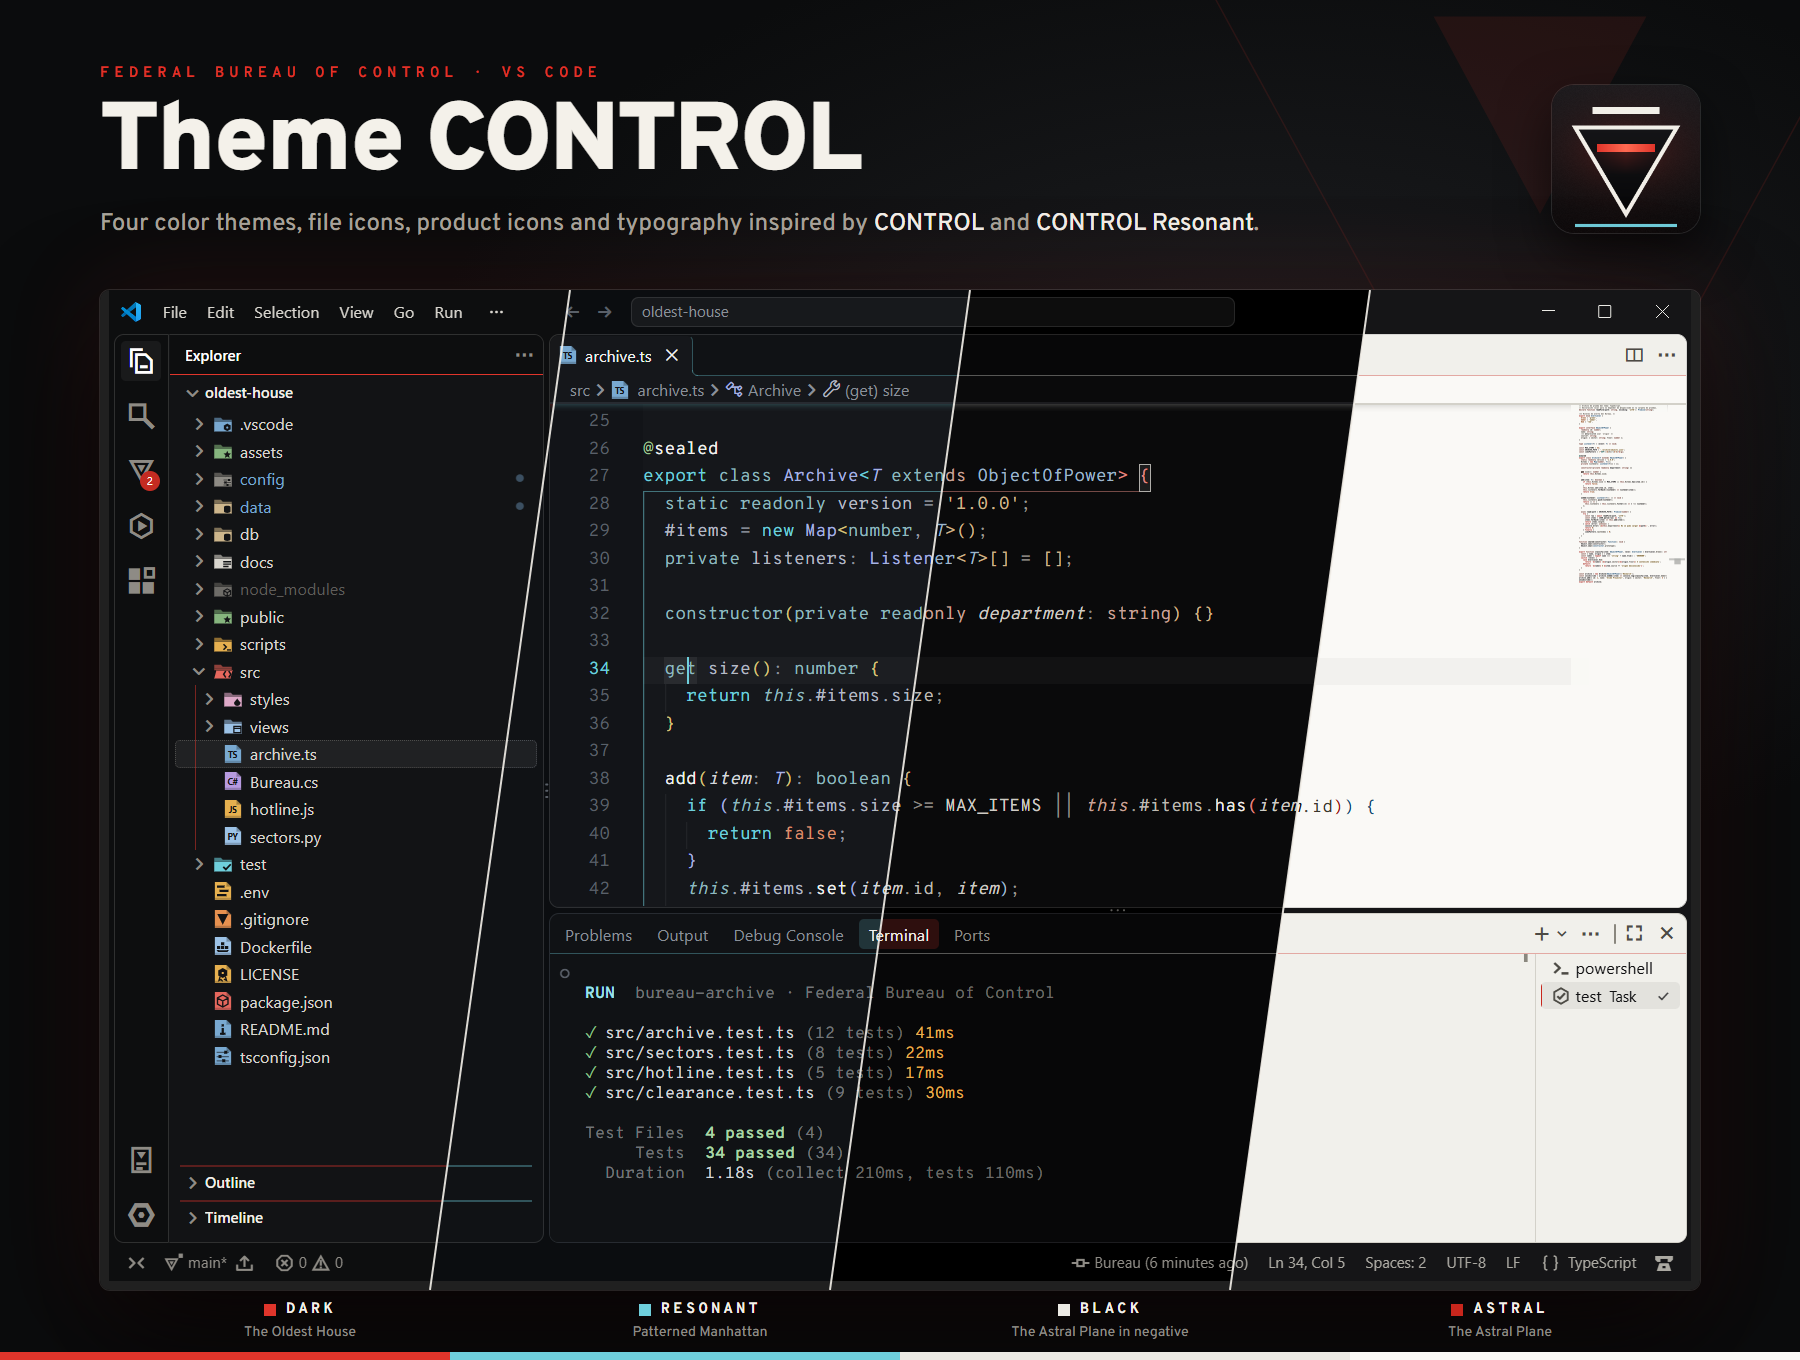
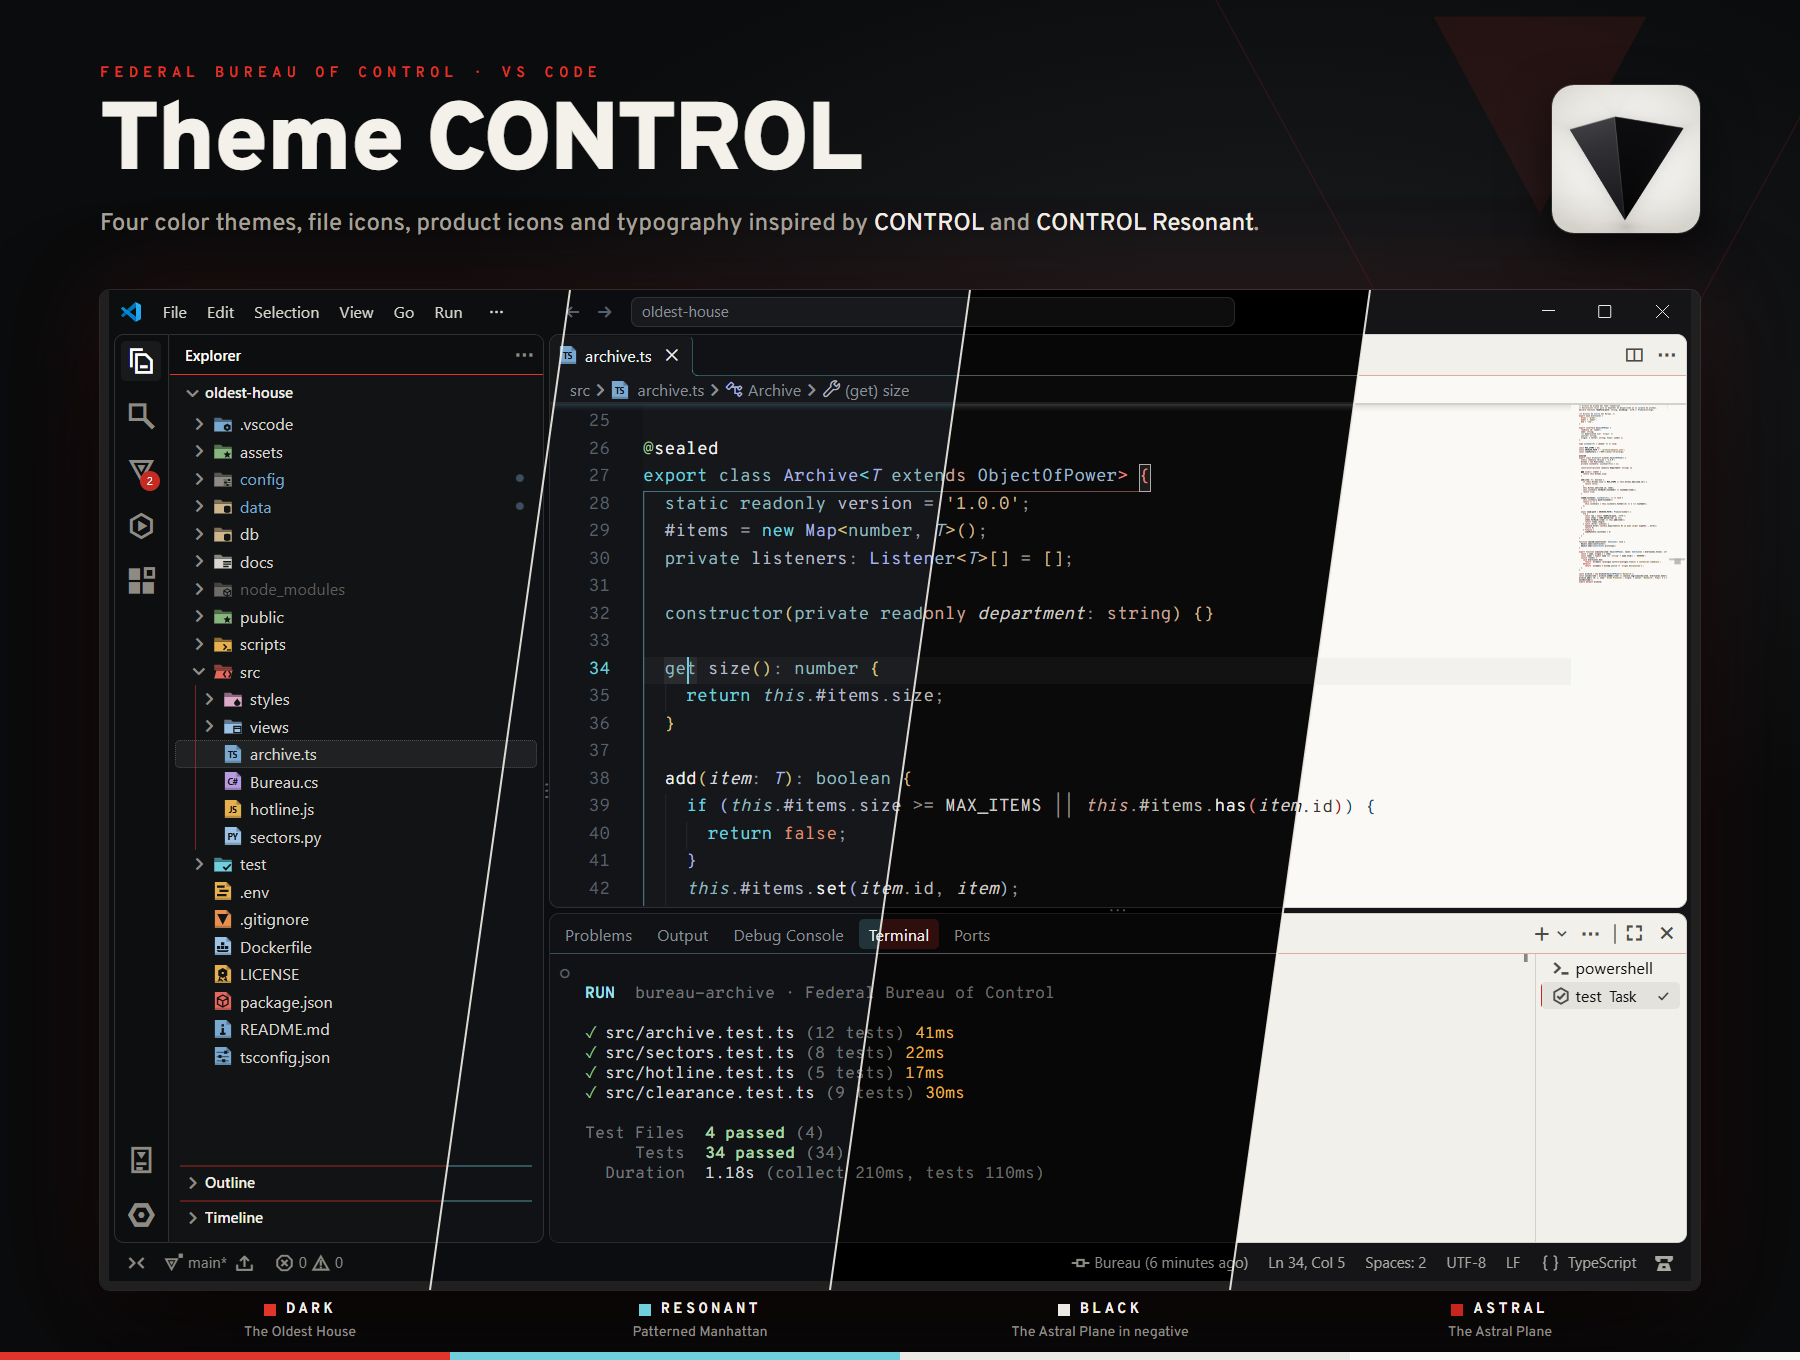
Icono nuevo: el Consejo en el Plano Astral
La pirámide invertida de piedra negra mate flotando en el vacío blanco,
vista desde abajo. Dibujo propio generado por código, sin arte del juego.
La portada del README usa el icono nuevo.

Changed region(s): [[0.84, 0.0618, 0.9644, 0.1853]]

diff --git a/scripts/icon.js b/scripts/icon.js
@@ -6,10 +6,11 @@
  *
  *   npm run icon
  *
- * Diseño propio, sin logos ni arte de los juegos: la pirámide invertida del
- * Consejo (el símbolo de todo el pack: rama de Git, Copilot, carpeta raíz)
- * flotando sobre hormigón, delineada en luz astral, con la ranura roja del FBC,
- * la línea con la que «habla» y la línea cian de la Hedron (Control Resonant).
+ * Diseño propio, sin logos ni arte de los juegos: el Consejo tal y como aparece
+ * en Control, una pirámide invertida de piedra negra mate flotando en el vacío
+ * blanco del Plano Astral. Se ve desde abajo y algo girada: dos caras (una
+ * iluminada por la luz astral y otra en sombra), la arista central y un filo de
+ * luz en el borde superior.
  */
 
 const fs = require('node:fs');
@@ -21,72 +22,95 @@ const SIZE = 256;
 const SS = 4; // supermuestreo por eje (antialiasing)
 
 /** @typedef {{r: number, g: number, b: number}} RGB */
-const BG_TOP = parse('#1A1B1E');
-const BG_BOTTOM = parse('#0B0C0D');
-const ASTRAL = parse('#F2EFE8');
-const BOARD = parse('#060607');
-const RED = parse('#E0352B');
-const RED_HOT = parse('#FF6A52');
-const CYAN = parse('#6FCFDC');
+/** @typedef {[number, number]} Pt */
+const VOID_CENTER = parse('#FCFBF8');
+const VOID_EDGE = parse('#D9D8D2');
+const HAZE = parse('#B4B3AD');
+const LIT_TOP = parse('#4A4A4F');
+const LIT_BOTTOM = parse('#18181B');
+const DARK_TOP = parse('#0E0E10');
+const DARK_BOTTOM = parse('#050506');
+const BOUNCE = parse('#232326');
+const RIM = parse('#E9E7E1');
+const RIDGE = parse('#5C5C61');
 
 const lerp = (/** @type {number} */ a, /** @type {number} */ b, /** @type {number} */ t) => a + (b - a) * t;
 const mixRGB = (/** @type {RGB} */ a, /** @type {RGB} */ b, /** @type {number} */ t) => ({ r: lerp(a.r, b.r, t), g: lerp(a.g, b.g, t), b: lerp(a.b, b.b, t) });
 const clamp01 = (/** @type {number} */ v) => Math.max(0, Math.min(1, v));
 
-// Pirámide invertida: vértices.
-const A = [34, 70];
-const B = [222, 70];
-const Cv = [128, 230];
-const OUTLINE = 7; // grosor del contorno de luz astral
+// Pirámide invertida vista desde abajo: la esquina delantera de la base (F)
+// queda por encima de las laterales (L, R) y la arista F→P separa las caras.
+/** @type {Pt} */ const L = [30, 76];
+/** @type {Pt} */ const F = [108, 54];
+/** @type {Pt} */ const R = [228, 74];
+/** @type {Pt} */ const P = [126, 234];
+const LIT = [L, F, P];
+const DARK = [F, R, P];
 
-/** Distancia con signo a una recta (positivo hacia dentro del triángulo). */
-function edge(/** @type {number[]} */ p, /** @type {number[]} */ q, /** @type {number} */ x, /** @type {number} */ y) {
+/** Distancia con signo a la recta p→q. */
+function edge(/** @type {Pt} */ p, /** @type {Pt} */ q, /** @type {number} */ x, /** @type {number} */ y) {
   const dx = q[0] - p[0];
   const dy = q[1] - p[1];
   return ((x - p[0]) * dy - (y - p[1]) * dx) / Math.hypot(dx, dy);
 }
 
-/** Distancia (positiva) al interior del triángulo: mínimo de las tres aristas. */
-function inside(/** @type {number} */ x, /** @type {number} */ y) {
-  return Math.min(-edge(A, B, x, y), -edge(B, Cv, x, y), -edge(Cv, A, x, y));
+/** Distancia al interior de un triángulo (positiva dentro, negativa fuera), sin importar el sentido. */
+function inside(/** @type {Pt[]} */ [a, b, c], /** @type {number} */ x, /** @type {number} */ y) {
+  const s = Math.sign(edge(a, b, c[0], c[1]));
+  return Math.min(s * edge(a, b, x, y), s * edge(b, c, x, y), s * edge(c, a, x, y));
+}
+
+/** Distancia de un punto a un segmento. */
+function segment(/** @type {Pt} */ p, /** @type {Pt} */ q, /** @type {number} */ x, /** @type {number} */ y) {
+  const dx = q[0] - p[0];
+  const dy = q[1] - p[1];
+  const t = clamp01(((x - p[0]) * dx + (y - p[1]) * dy) / (dx * dx + dy * dy));
+  return Math.hypot(x - (p[0] + t * dx), y - (p[1] + t * dy));
 }
 
 function grain(/** @type {number} */ x, /** @type {number} */ y) {
   const n = Math.sin(Math.floor(x) * 12.9898 + Math.floor(y) * 78.233) * 43758.5453;
-  return (n - Math.floor(n) - 0.5) * 5;
+  return (n - Math.floor(n) - 0.5) * 3;
 }
 
 /** @returns {RGB} */
 function shade(/** @type {number} */ x, /** @type {number} */ y) {
-  // Fondo: hormigón oscuro con grano y un resplandor rojo que sale de la ranura.
-  let c = mixRGB(BG_TOP, BG_BOTTOM, y / SIZE);
-  const g = grain(x, y);
-  c = { r: c.r + g, g: c.g + g, b: c.b + g };
-  const glow = Math.exp(-Math.hypot((x - 128) / 1.6, y - 112) / 46);
-  c = mixRGB(c, RED, clamp01(glow * 0.35));
+  const t = clamp01((y - F[1]) / (P[1] - F[1])); // 0 en la base, 1 en el vértice
 
-  // La línea con la que «habla» el Consejo.
-  if (y >= 38 && y < 50 && x >= 70 && x < 186) c = ASTRAL;
-
-  // La pirámide.
-  const d = inside(x, y);
-  if (d >= 0) {
-    if (d < OUTLINE) c = ASTRAL;
-    else {
-      c = mixRGB(BOARD, { r: 30, g: 30, b: 34 }, clamp01((230 - y) / 260));
-      // Ranura roja del FBC, más intensa en el centro.
-      if (y >= 102 && y < 116 && Math.abs(x - 128) < 50) {
-        c = mixRGB(RED, RED_HOT, clamp01(1 - Math.abs(x - 128) / 50));
-      }
-      // Reflejo rojo de la ranura sobre la cara interior.
-      const below = y - 116;
-      if (below > 0 && below < 40) c = mixRGB(c, RED, clamp01((1 - below / 40) * (1 - Math.abs(x - 128) / 70)) * 0.25);
+  const dLit = inside(LIT, x, y);
+  const dDark = inside(DARK, x, y);
+  if (dLit >= 0 || dDark >= 0) {
+    let c;
+    if (dLit >= dDark) {
+      // Cara iluminada: la luz astral entra por arriba a la izquierda.
+      c = mixRGB(LIT_TOP, LIT_BOTTOM, Math.pow(t, 0.7));
+      c = mixRGB(c, LIT_BOTTOM, clamp01((x - L[0]) / 260) * 0.5);
+    } else {
+      // Cara en sombra, con un leve rebote de luz junto al borde derecho.
+      c = mixRGB(DARK_TOP, DARK_BOTTOM, t);
+      c = mixRGB(c, BOUNCE, Math.exp(-Math.max(0, -edge(R, P, x, y)) / 10) * 0.55 * (1 - t));
     }
+    // Arista central.
+    const ridge = segment(F, P, x, y);
+    if (ridge < 1.4) c = mixRGB(c, RIDGE, (1 - ridge / 1.4) * (1 - t * 0.7));
+    // Filo de luz en el borde superior (más fuerte en el lado iluminado).
+    const rimLit = segment(L, F, x, y);
+    const rimDark = segment(F, R, x, y);
+    if (rimLit < 2.2) c = mixRGB(c, RIM, (1 - rimLit / 2.2) * 0.9);
+    if (rimDark < 1.8) c = mixRGB(c, RIM, (1 - rimDark / 1.8) * 0.45);
+    return c;
   }
 
-  // Línea cian de la Hedron (Control Resonant).
-  if (y >= 240 && y < 246 && x >= 40 && x < 216) c = CYAN;
-  return c;
+  // El vacío del Plano Astral: blanco, más luminoso detrás del Consejo.
+  const r = Math.hypot((x - 128) / 1.15, y - 118) / 190;
+  let c = mixRGB(VOID_CENTER, VOID_EDGE, clamp01(r * r * 1.6));
+  // Bruma alrededor de la silueta para que flote.
+  const out = Math.max(-dLit, -dDark) < 0 ? 0 : Math.min(-dLit, -dDark);
+  c = mixRGB(c, HAZE, Math.exp(-out / 16) * 0.32);
+  // Sombra difusa bajo el vértice.
+  c = mixRGB(c, HAZE, Math.exp(-Math.hypot((x - 128) / 3.2, (y - 246) / 1.2) / 6) * 0.5);
+  const g = grain(x, y);
+  return { r: c.r + g, g: c.g + g, b: c.b + g };
 }
 
 function main() {

diff --git a/docs/plan_claude.md b/docs/plan_claude.md
@@ -647,6 +647,7 @@ Peticiones: título **Theme CONTROL**; descripción más corta y profesional; ca
 | Qué | Dónde | Verificado |
 |---|---|---|
 | Título **Theme CONTROL** y descripción corta (inglés y español) | `package.nls.json`, `package.nls.es.json` | Instalación limpia del `.vsix` |
+| **Icono nuevo**: el Consejo como aparece en el Plano Astral, una pirámide invertida de piedra negra mate en el vacío blanco, vista desde abajo (dibujo propio, sin arte del juego) | `scripts/icon.js` | Revisado a 256, 128, 64 y 42 px sobre fondo claro y oscuro |
 | **Capturas profesionales**: VS Code real con un proyecto de demostración (Git con cambios, tarea de tests en la terminal, tipografía del juego), compuestas sobre fondos por tema: portada con los cuatro temas en franjas diagonales, una lámina por tema con su paleta, vitrina de Bureau Icons, comparación VS Code → Bureau de los iconos de producto y tipografía | `images/screenshots/` | Revisadas una a una |
 | **README bilingüe**: sección completa en inglés y otra en español, con las nuevas imágenes | `README.md` | Todas las imágenes enlazadas existen |
 | Rama de Git con cambios, preparada o con conflictos: la pirámide con una marca (4 glifos nuevos, 166 iconos) | `scripts/product-icons.js` | Barra de estado con `main*` en las capturas |

diff --git a/CHANGELOG.md b/CHANGELOG.md
@@ -8,6 +8,7 @@ The format is based on [Keep a Changelog](https://keepachangelog.com/en/1.1.0/) 
 ### Changed
 
 - New name: **Theme CONTROL**, with a shorter description.
+- New extension icon: the Board as it appears in the Astral Plane — a matte black inverted pyramid floating in the white void (original artwork, no game assets).
 - The details page is now bilingual — a complete English section and a complete Spanish section — with new professional screenshots: the four themes, Bureau Icons, Bureau Product Icons and the typography.
 - The Git branch in the status bar keeps the inverted pyramid when the branch has uncommitted changes, staged changes or conflicts (with a small mark), and when creating or deleting branches.
 
